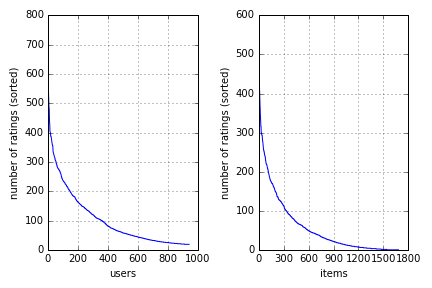
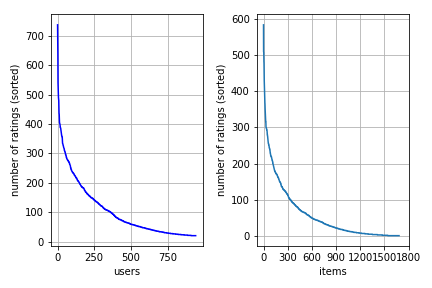
change run

Changed region(s): [[0.0, 0.0312, 0.9931, 0.9688]]

diff --git a/projects/project2/project_recommender_system/src/helpers.py b/projects/project2/project_recommender_system/src/helpers.py
@@ -3,7 +3,7 @@ import scipy.sparse as sp
 from itertools import groupby
 
 
-def split_data(ratings, num_items_per_user, num_users_per_item, min_num_ratings, p_test=0.2):
+def split_data(ratings, num_items_per_user, num_users_per_item, min_num_ratings, p_test=0.5):
     """
     split the ratings to training data and test data.
     Args:
@@ -13,10 +13,7 @@ def split_data(ratings, num_items_per_user, num_users_per_item, min_num_ratings,
     # set seed
     np.random.seed(1)
 
-    # select user and item based on the condition.
-    valid_users = np.where(num_items_per_user >= min_num_ratings)[0]
-    valid_items = np.where(num_users_per_item >= min_num_ratings)[0]
-    valid_ratings = ratings[valid_items, :][:, valid_users]
+    valid_ratings, transformation_user, transformation_item = transformation(ratings, num_items_per_user, num_users_per_item, min_num_ratings)
 
     # init
     num_rows, num_cols = valid_ratings.shape
@@ -45,6 +42,39 @@ def split_data(ratings, num_items_per_user, num_users_per_item, min_num_ratings,
     print("Total number of nonzero elements in train data:{v}".format(v=train.nnz))
     print("Total number of nonzero elements in test data:{v}".format(v=test.nnz))
     return valid_ratings, train, test
+
+def transformation(ratings, num_items_per_user, num_users_per_item, min_num_ratings):
+    # select user and item based on the condition.
+    valid_users = np.where(num_items_per_user >= min_num_ratings)[0]
+    valid_items = np.where(num_users_per_item >= min_num_ratings)[0]
+    valid_ratings = ratings[valid_items, :][:, valid_users]
+
+    #generate transformation vectors
+
+    transformation_user = list(range(ratings.shape[1])
+    transformation_item = list(range(ratings.shape[0])
+
+    deleted_user = np.where(num_items_per_user < min_num_ratings)[0]
+    deleted_item = np.where(num_users_per_item < min_num_ratings)[0]
+
+    transformation_user[deleted_user] = -1
+    transformation_item[deleted_item] = -1
+
+    k = 0
+    for i in range(len(transformation_user)):
+        if transformation_user[i] == -1:
+            k += 1
+        else:
+            transformation_user[i] -= k
+
+    k_item = 0
+    for i in range(len(transformation_item)):
+        if transformation_item[i] == -1:
+           k_item += 1
+        else:
+            transformation_item[i] -= k_item
+
+    return valid_ratings, transformation_user, transformation_item
 
 
 def plot_raw_data(ratings):

diff --git a/projects/project2/project_recommender_system/src/methods.py b/projects/project2/project_recommender_system/src/methods.py
@@ -8,16 +8,25 @@ def init_mf(train, num_features):
 
     num_item, num_user = train.get_shape()
 
-    user_features = np.random.rand(num_features, num_user)
-    item_features = np.random.rand(num_features, num_item)
+    U, S, V  = np.linalg.svd(train)
+
+    user_features = U
+    item_features = S.dot(V.T)
+    #user_features = np.random.rand(num_features, num_user)
+    #item_features = np.random.rand(num_features, num_item)
 
     # start by item features.
-    item_nnz = train.getnnz(axis=1)
-    item_sum = train.sum(axis=1)
-
-    for ind in range(num_item):
-        if item_nnz[ind] != 0:
-            item_features[0, ind] = item_sum[ind, 0] / item_nnz[ind]
+    # item_nnz = train.getnnz(axis=1)
+    # item_sum = train.sum(axis=1)
+    # user_sum = train.sum(axis=0)
+    # user_nnz = train.getnnz(axis=0)
+    #
+    # for ind in range(num_item):
+    #     if item_nnz[ind] != 0:
+    #         item_features[0, ind] = item_sum[ind, 0] / item_nnz[ind]
+    # for ind in range(num_user):
+    #     if user_nnz[ind] != 0:
+    #         user_features[0, ind] = user_sum[0, ind] / user_nnz[ind]
     print(user_features.shape, item_features.shape)
     return user_features, item_features
 
@@ -39,7 +48,7 @@ def matrix_factorization_SGD(train, test, lambda_user, lambda_item, num_features
     #num_features = 30  # K in the lecture notes
     #lambda_user = 0.1
     #lambda_item = 0.01
-    num_epochs = 30  # number of full passes through the train set
+    num_epochs = 35  # number of full passes through the train set
 
     # set seed
     np.random.seed(988)

diff --git a/projects/project2/project_recommender_system/src/A.py b/projects/project2/project_recommender_system/src/A.py
@@ -1,23 +1,24 @@
 from run import run
 
 def main():
-    # L_user = [0, 0.001,0.01,0.1,0.2,0.5,1]
-    # L_item = [0, 0.001, 0.01, 0.1, 0.2, 0.5, 1]
-    # N_features = [10,20,30,35,40,45]
-    # p_test = [0.1, 0.2, 0.3, 0.4, 0.5]
-    # error = {}
-    # minim = 9999
-    # for i in L_user:
-    #     for j in L_item:
-    #         for k in N_features:
-    #             for p in p_test:
-    #                 rmse = run(i,j,k,p)
-    #                 if rmse < minim:
-    #                     minim = rmse
-    #                 error[rmse] = (i,j,k,p)
-    # return error, minim
-    rmse = run(0.001, 0.001, 30, 0.2)
-    print(rmse)
+    L_user = [0.001,0.01,0.1]
+    L_item = [0.001, 0.01, 0.1]
+    N_features = [1,2,4,5,10]
+    p_test = [0.1, 0.2, 0.3, 0.4, 0.5]
+    error = {}
+    minim = 9999
+    for i in L_user:
+        for j in L_item:
+            for k in N_features:
+                for p in p_test:
+                    rmse = run(i,j,k,p)
+                    if rmse < minim:
+                        minim = rmse
+                    error[rmse] = (i,j,k,p)
+
+    return error, minim
+    #rmse = run(0.001, 0.001, 30, 0.2)
+    #print(rmse)
 
 if __name__ == '__main__':
     main()

diff --git a/projects/project2/project_recommender_system/src/run.py b/projects/project2/project_recommender_system/src/run.py
@@ -2,9 +2,9 @@ from methods import matrix_factorization_SGD, ALS
 from parsers import load_data, create_submission
 
 
-def run(lambda_user = 0.001, lambda_item = 0.001, num_features = 30, p_test=0.2):
+def run(lambda_user = 0.01, lambda_item = 0.01, num_features = 30, p_test=0.2):
     train, test = load_data()
-    item_features, user_features, rmse = ALS(train, test, lambda_user, lambda_item, num_features)
+    item_features, user_features = matrix_factorization_SGD(train, test, lambda_user, lambda_item, num_features)
     # model = NMF(n_components=10, init='random', random_state=0)
     # W = model.fit_transform(train)
     # Z = model.components_

diff --git a/projects/project2/project_recommender_system/src/parsers.py b/projects/project2/project_recommender_system/src/parsers.py
@@ -7,7 +7,7 @@ import csv
 from helpers import plot_raw_data, split_data
 
 DATA_DIR = "../data"
-MIN_NUM_RATINGS = 10
+MIN_NUM_RATINGS = 1
 
 
 def load_data():
@@ -132,6 +132,7 @@ def create_submission(w, z):
     x = np.transpose(w).dot(z)
 
     ids = ["r{}_c{}".format(c[0] + 1, c[1] + 1) for c in cells]
+    
     preds = [round(x[c[0], c[1]]) for c in cells]
 
     with open("{}/submission.csv".format(DATA_DIR), 'w') as csvfile:
